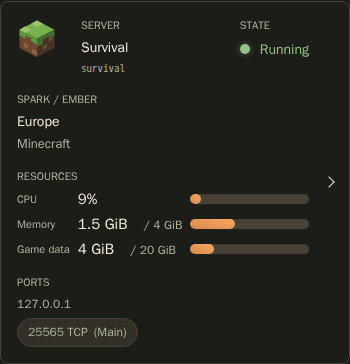
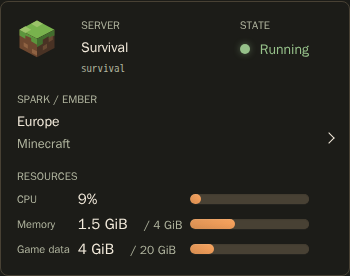
Hide port allocations on mobile server cards
Reuse the existing mobile-hidden table column utility for the Servers list's ports header and cells. Desktop port allocations remain visible; no new CSS or responsive logic is needed.

Refresh three existing mobile screenshots. Five canonical browser comparison tests, production build, typechecks, lint and formatting pass; full verification deferred.

diff --git a/web/src/pages/ServersPage.tsx b/web/src/pages/ServersPage.tsx
@@ -250,7 +250,9 @@ export function ServersPage() {
               </th>
               <th scope="col">{t("serversPage.sparkEmber")}</th>
               <th scope="col">{t("serversPage.resources")}</th>
-              <th scope="col">{t("common.ports")}</th>
+              <th scope="col" className="table-mobile-hidden">
+                {t("common.ports")}
+              </th>
               <th scope="col" className="table-actions">
                 <span className="visually-hidden">{t("common.actions")}</span>
               </th>
@@ -379,7 +381,10 @@ export function ServersPage() {
                       elapsed={monitoring.elapsed}
                     />
                   </td>
-                  <td data-label={t("common.ports")}>
+                  <td
+                    className="table-mobile-hidden"
+                    data-label={t("common.ports")}
+                  >
                     <PortGroups
                       ports={server.ports.map((port) => ({
                         address: server.game_address || port.bind_ip,
